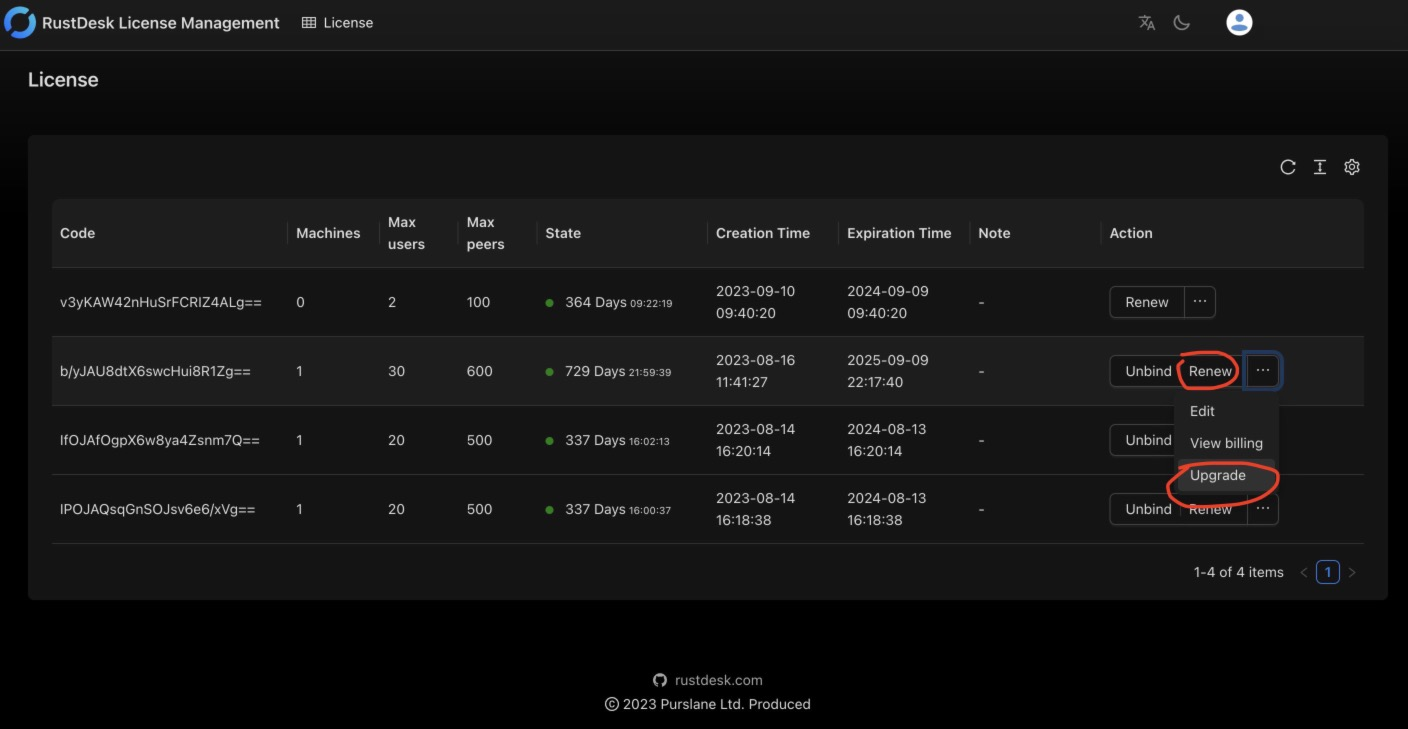
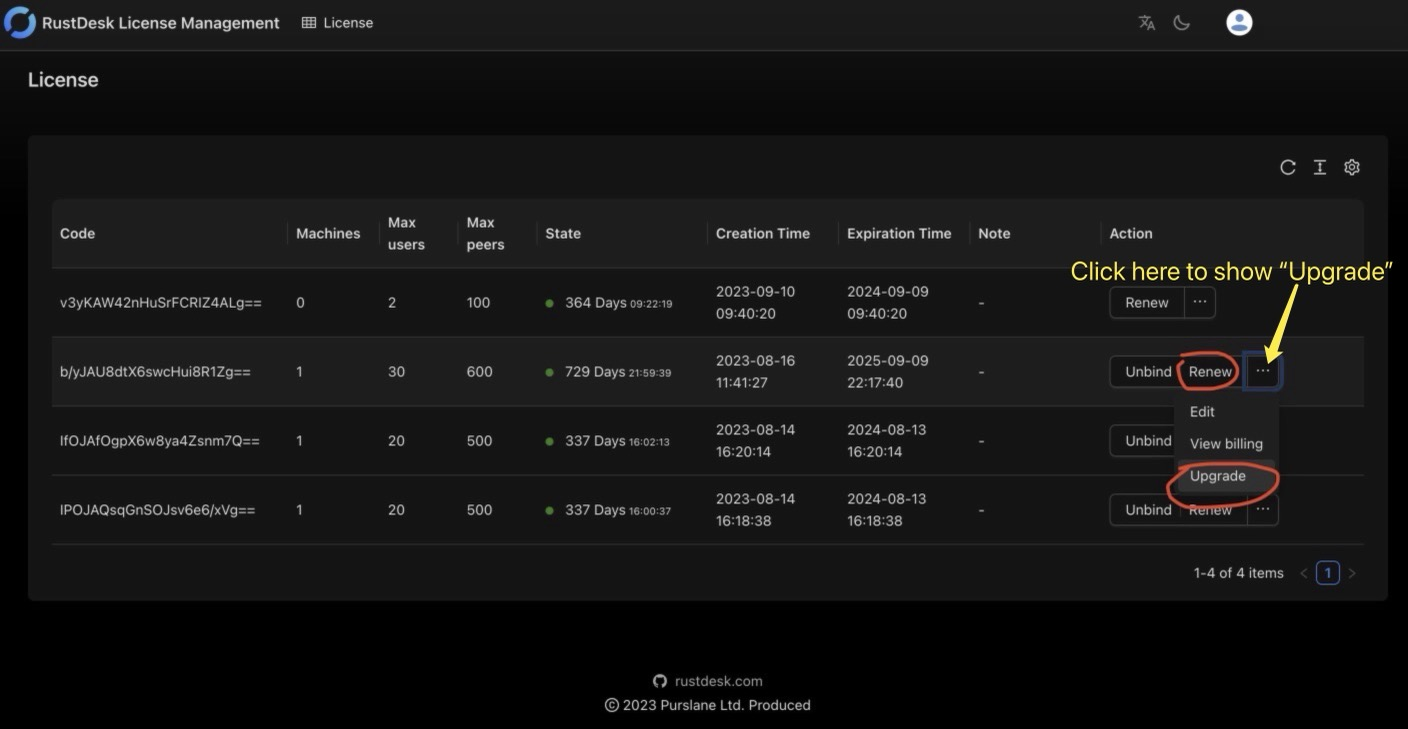
modify image

diff --git a/content/self-host/rustdesk-server-pro/license/_index.de.md b/content/self-host/rustdesk-server-pro/license/_index.de.md
@@ -23,7 +23,7 @@ Verlängerung bzw. Aktualisierung der Lizenz erfolgt über das [Self-Service-Liz
 
 | Lizenzseite mit Verlängerungs-/Aktualisierungsaktionen | Aktualisierungsfenster |
 | --- | --- |
-| ![](/docs/en/self-host/rustdesk-server-pro/license/images/renew.jpg) | ![](/docs/en/self-host/rustdesk-server-pro/license/images/upgrade.png) |
+| ![](/docs/en/self-host/rustdesk-server-pro/license/images/renew.jpg?v2) | ![](/docs/en/self-host/rustdesk-server-pro/license/images/upgrade.png) |
 
 Nach der Zahlung müssen Sie die Webkonsole aufrufen, um sie manuell zu aktivieren. Klicken Sie einfach auf `Edit` und dann auf `OK`. Sie brauchen nichts zu bearbeiten, denn Ihr Lizenzschlüssel bleibt derselbe.
 

diff --git a/content/self-host/rustdesk-server-pro/license/_index.en.md b/content/self-host/rustdesk-server-pro/license/_index.en.md
@@ -23,7 +23,7 @@ Renew/upgrade license can be found via the [self-service license portal](https:/
 
 | License page with renew/upgrade actions | Upgrade window |
 | --- | --- |
-| ![](/docs/en/self-host/rustdesk-server-pro/license/images/renew.jpg) | ![](/docs/en/self-host/rustdesk-server-pro/license/images/upgrade.png) |
+| ![](/docs/en/self-host/rustdesk-server-pro/license/images/renew.jpg?v2) | ![](/docs/en/self-host/rustdesk-server-pro/license/images/upgrade.png) |
 
 After making the payment, please refresh the license [as below](/docs/en/self-host/rustdesk-server-pro/license/#refresh-license) to activate it.
 

diff --git a/content/self-host/rustdesk-server-pro/license/_index.pt.md b/content/self-host/rustdesk-server-pro/license/_index.pt.md
@@ -23,7 +23,7 @@ A renovação/atualização da licença pode ser encontrada no [portal de autoat
 
 | Página de licença com ações de renovação/atualização | Janela de atualização |
 | --- | --- |
-| ![](/docs/en/self-host/rustdesk-server-pro/license/images/renew.jpg) | ![](/docs/en/self-host/rustdesk-server-pro/license/images/upgrade.png) |
+| ![](/docs/en/self-host/rustdesk-server-pro/license/images/renew.jpg?v2) | ![](/docs/en/self-host/rustdesk-server-pro/license/images/upgrade.png) |
 
 Após o pagamento, você precisa acessar o console web para ativá-la manualmente como mostrado abaixo. Basta clicar em `Editar` e depois em `OK`, não é necessário editar nada, pois sua chave de licença permanece a mesma.
 